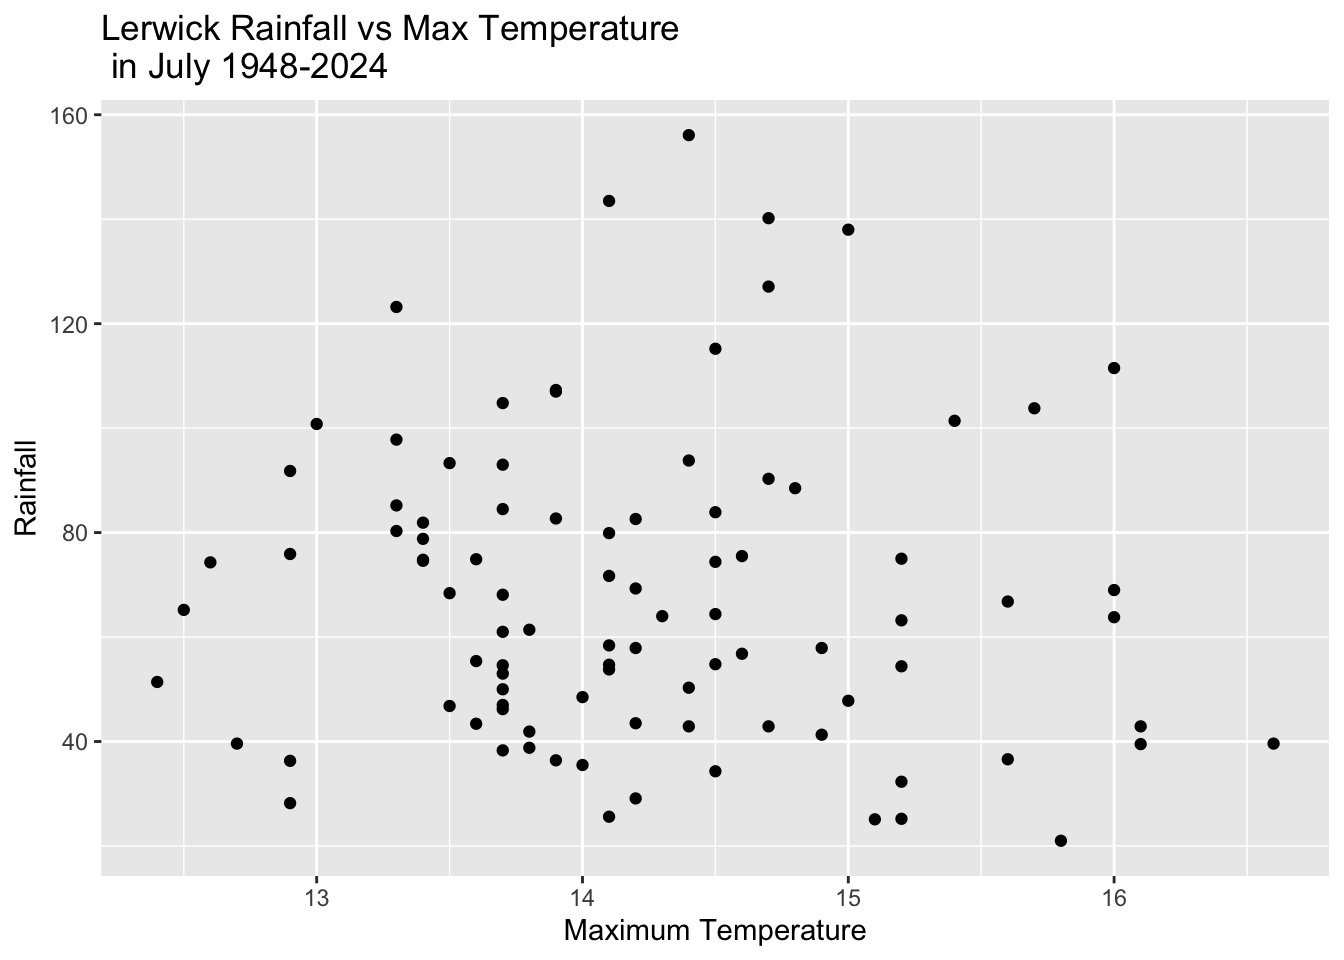
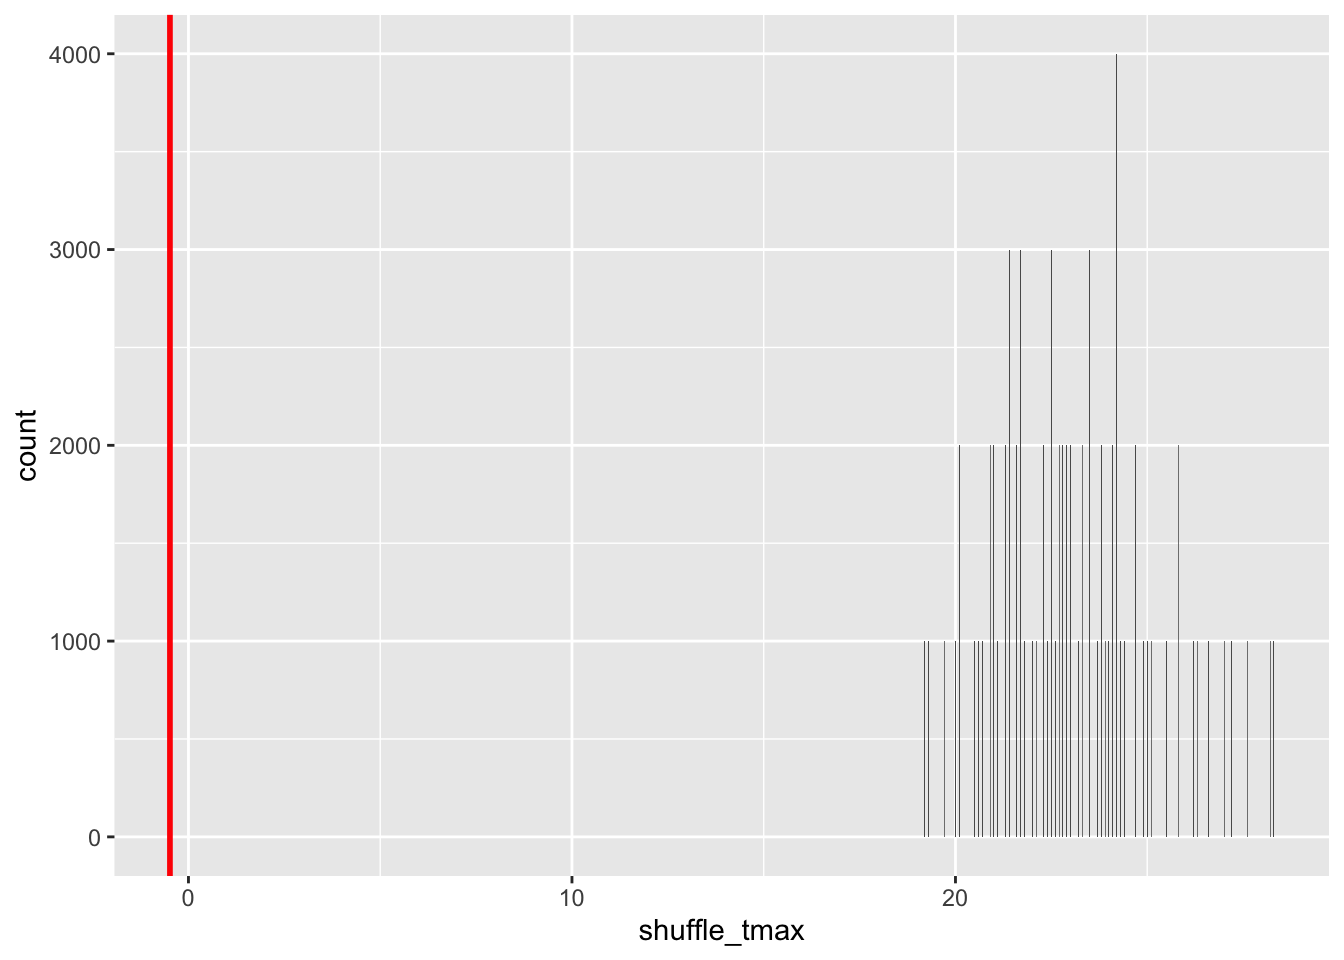
r value

diff --git a/docs/UK_Weather.html b/docs/UK_Weather.html
@@ -195,8 +195,9 @@ pre > code.sourceCode > span > a:first-child::before { text-decoration: underlin
 <summary>Code</summary>
 <div class="code-copy-outer-scaffold"><div class="sourceCode cell-code" id="cb1"><pre class="sourceCode r code-with-copy"><code class="sourceCode r"><span id="cb1-1"><a href="#cb1-1" aria-hidden="true" tabindex="-1"></a><span class="fu">library</span>(tidyverse)</span>
 <span id="cb1-2"><a href="#cb1-2" aria-hidden="true" tabindex="-1"></a><span class="fu">library</span>(ggplot2)</span>
-<span id="cb1-3"><a href="#cb1-3" aria-hidden="true" tabindex="-1"></a></span>
-<span id="cb1-4"><a href="#cb1-4" aria-hidden="true" tabindex="-1"></a>uk_weather <span class="ot">&lt;-</span> readr<span class="sc">::</span><span class="fu">read_csv</span>(<span class="st">'https://raw.githubusercontent.com/rfordatascience/tidytuesday/main/data/2025/2025-10-21/historic_station_met.csv'</span>)</span></code></pre></div><button title="Copy to Clipboard" class="code-copy-button"><i class="bi"></i></button></div>
+<span id="cb1-3"><a href="#cb1-3" aria-hidden="true" tabindex="-1"></a><span class="fu">library</span>(reprex)</span>
+<span id="cb1-4"><a href="#cb1-4" aria-hidden="true" tabindex="-1"></a></span>
+<span id="cb1-5"><a href="#cb1-5" aria-hidden="true" tabindex="-1"></a>uk_weather <span class="ot">&lt;-</span> readr<span class="sc">::</span><span class="fu">read_csv</span>(<span class="st">'https://raw.githubusercontent.com/rfordatascience/tidytuesday/main/data/2025/2025-10-21/historic_station_met.csv'</span>)</span></code></pre></div><button title="Copy to Clipboard" class="code-copy-button"><i class="bi"></i></button></div>
 </details>
 </div>
 <p>In the UK, the summers are often warm, however within the past few years there have been record high temperatures during the month of July. I thought it would be interesting to uncover the data from the month of July throughout a range of years.</p>
@@ -205,7 +206,7 @@ pre > code.sourceCode > span > a:first-child::before { text-decoration: underlin
 <summary>Code</summary>
 <div class="code-copy-outer-scaffold"><div class="sourceCode cell-code" id="cb2"><pre class="sourceCode r code-with-copy"><code class="sourceCode r"><span id="cb2-1"><a href="#cb2-1" aria-hidden="true" tabindex="-1"></a>heathrow_july <span class="ot">&lt;-</span> uk_weather <span class="sc">|&gt;</span></span>
 <span id="cb2-2"><a href="#cb2-2" aria-hidden="true" tabindex="-1"></a>  <span class="fu">filter</span>(station <span class="sc">==</span> <span class="st">"heathrow"</span>, month <span class="sc">==</span> <span class="dv">7</span>) <span class="sc">|&gt;</span></span>
-<span id="cb2-3"><a href="#cb2-3" aria-hidden="true" tabindex="-1"></a>  <span class="fu">select</span>(station, month, year, tmax, rain)</span>
+<span id="cb2-3"><a href="#cb2-3" aria-hidden="true" tabindex="-1"></a>  <span class="fu">select</span>(station, month, year, tmax, rain) </span>
 <span id="cb2-4"><a href="#cb2-4" aria-hidden="true" tabindex="-1"></a></span>
 <span id="cb2-5"><a href="#cb2-5" aria-hidden="true" tabindex="-1"></a><span class="fu">ggplot</span>(heathrow_july, <span class="fu">aes</span>(<span class="at">x =</span> tmax, <span class="at">y =</span> rain))<span class="sc">+</span></span>
 <span id="cb2-6"><a href="#cb2-6" aria-hidden="true" tabindex="-1"></a>  <span class="fu">geom_point</span>() <span class="sc">+</span></span>
@@ -226,41 +227,32 @@ pre > code.sourceCode > span > a:first-child::before { text-decoration: underlin
 <div class="cell">
 <details class="code-fold">
 <summary>Code</summary>
-<div class="code-copy-outer-scaffold"><div class="sourceCode cell-code" id="cb3"><pre class="sourceCode r code-with-copy"><code class="sourceCode r"><span id="cb3-1"><a href="#cb3-1" aria-hidden="true" tabindex="-1"></a>shuffling <span class="ot">&lt;-</span> <span class="cf">function</span>(num, dataframe){</span>
-<span id="cb3-2"><a href="#cb3-2" aria-hidden="true" tabindex="-1"></a>  dataframe <span class="sc">|&gt;</span></span>
-<span id="cb3-3"><a href="#cb3-3" aria-hidden="true" tabindex="-1"></a>    <span class="fu">mutate</span>(<span class="at">shuffle_tmax =</span> <span class="fu">sample</span>(tmax))</span>
-<span id="cb3-4"><a href="#cb3-4" aria-hidden="true" tabindex="-1"></a>}</span>
-<span id="cb3-5"><a href="#cb3-5" aria-hidden="true" tabindex="-1"></a>shuffled_heathrow <span class="ot">&lt;-</span> <span class="fu">map</span>(<span class="dv">1</span><span class="sc">:</span><span class="dv">1000</span>, shuffling, <span class="at">dataframe =</span> heathrow_july) <span class="sc">|&gt;</span></span>
-<span id="cb3-6"><a href="#cb3-6" aria-hidden="true" tabindex="-1"></a><span class="fu">list_rbind</span>()</span>
-<span id="cb3-7"><a href="#cb3-7" aria-hidden="true" tabindex="-1"></a></span>
-<span id="cb3-8"><a href="#cb3-8" aria-hidden="true" tabindex="-1"></a>shuffled_heathrow <span class="sc">|&gt;</span></span>
-<span id="cb3-9"><a href="#cb3-9" aria-hidden="true" tabindex="-1"></a>  <span class="fu">ggplot</span>(<span class="fu">aes</span>(<span class="at">x =</span> shuffle_tmax)) <span class="sc">+</span></span>
-<span id="cb3-10"><a href="#cb3-10" aria-hidden="true" tabindex="-1"></a>  <span class="fu">geom_histogram</span>(<span class="at">binwidth =</span> <span class="fl">0.02</span>) <span class="sc">+</span></span>
-<span id="cb3-11"><a href="#cb3-11" aria-hidden="true" tabindex="-1"></a>  <span class="fu">labs</span>(</span>
-<span id="cb3-12"><a href="#cb3-12" aria-hidden="true" tabindex="-1"></a>  )</span></code></pre></div><button title="Copy to Clipboard" class="code-copy-button"><i class="bi"></i></button></div>
+<div class="code-copy-outer-scaffold"><div class="sourceCode cell-code" id="cb3"><pre class="sourceCode r code-with-copy"><code class="sourceCode r"><span id="cb3-1"><a href="#cb3-1" aria-hidden="true" tabindex="-1"></a>correlation_heathrow <span class="ot">&lt;-</span> heathrow_july <span class="sc">|&gt;</span></span>
+<span id="cb3-2"><a href="#cb3-2" aria-hidden="true" tabindex="-1"></a>  <span class="fu">summarize</span>(<span class="at">r =</span> <span class="fu">cor</span>(tmax, rain)) <span class="sc">|&gt;</span></span>
+<span id="cb3-3"><a href="#cb3-3" aria-hidden="true" tabindex="-1"></a>  <span class="fu">pull</span>(r)</span>
+<span id="cb3-4"><a href="#cb3-4" aria-hidden="true" tabindex="-1"></a>correlation_heathrow</span></code></pre></div><button title="Copy to Clipboard" class="code-copy-button"><i class="bi"></i></button></div>
 </details>
-<div class="cell-output-display">
-<div>
-<figure class="figure">
-<p><img src="UK_Weather_files/figure-html/unnamed-chunk-3-1.png" class="img-fluid figure-img" width="672"></p>
-</figure>
-</div>
+<div class="cell-output cell-output-stdout">
+<pre><code>[1] -0.482847</code></pre>
 </div>
 </div>
 <div class="cell">
 <details class="code-fold">
 <summary>Code</summary>
-<div class="code-copy-outer-scaffold"><div class="sourceCode cell-code" id="cb4"><pre class="sourceCode r code-with-copy"><code class="sourceCode r"><span id="cb4-1"><a href="#cb4-1" aria-hidden="true" tabindex="-1"></a>lerwick_july <span class="ot">&lt;-</span> uk_weather <span class="sc">|&gt;</span></span>
-<span id="cb4-2"><a href="#cb4-2" aria-hidden="true" tabindex="-1"></a>  <span class="fu">filter</span>(station <span class="sc">==</span> <span class="st">"lerwick"</span>, month <span class="sc">==</span> <span class="dv">7</span>) <span class="sc">|&gt;</span></span>
-<span id="cb4-3"><a href="#cb4-3" aria-hidden="true" tabindex="-1"></a>  <span class="fu">select</span>(station, month, year, tmax, rain)</span>
-<span id="cb4-4"><a href="#cb4-4" aria-hidden="true" tabindex="-1"></a></span>
-<span id="cb4-5"><a href="#cb4-5" aria-hidden="true" tabindex="-1"></a><span class="fu">ggplot</span>(lerwick_july, <span class="fu">aes</span>(<span class="at">x =</span> tmax, <span class="at">y =</span> rain))<span class="sc">+</span></span>
-<span id="cb4-6"><a href="#cb4-6" aria-hidden="true" tabindex="-1"></a>  <span class="fu">geom_point</span>() <span class="sc">+</span></span>
-<span id="cb4-7"><a href="#cb4-7" aria-hidden="true" tabindex="-1"></a>  <span class="fu">labs</span>(</span>
-<span id="cb4-8"><a href="#cb4-8" aria-hidden="true" tabindex="-1"></a>    <span class="at">title =</span> <span class="st">"Lerwick Rainfall vs Max Temperature </span><span class="sc">\n</span><span class="st"> in July 1948-2024"</span>, </span>
-<span id="cb4-9"><a href="#cb4-9" aria-hidden="true" tabindex="-1"></a>    <span class="at">x =</span> <span class="st">"Maximum Temperature"</span>, </span>
-<span id="cb4-10"><a href="#cb4-10" aria-hidden="true" tabindex="-1"></a>    <span class="at">y =</span> <span class="st">"Rainfall"</span></span>
-<span id="cb4-11"><a href="#cb4-11" aria-hidden="true" tabindex="-1"></a>    )</span></code></pre></div><button title="Copy to Clipboard" class="code-copy-button"><i class="bi"></i></button></div>
+<div class="code-copy-outer-scaffold"><div class="sourceCode cell-code" id="cb5"><pre class="sourceCode r code-with-copy"><code class="sourceCode r"><span id="cb5-1"><a href="#cb5-1" aria-hidden="true" tabindex="-1"></a>shuffling <span class="ot">&lt;-</span> <span class="cf">function</span>(num, dataframe){</span>
+<span id="cb5-2"><a href="#cb5-2" aria-hidden="true" tabindex="-1"></a>  dataframe <span class="sc">|&gt;</span></span>
+<span id="cb5-3"><a href="#cb5-3" aria-hidden="true" tabindex="-1"></a>    <span class="fu">mutate</span>(<span class="at">shuffle_tmax =</span> <span class="fu">sample</span>(tmax))</span>
+<span id="cb5-4"><a href="#cb5-4" aria-hidden="true" tabindex="-1"></a>}</span>
+<span id="cb5-5"><a href="#cb5-5" aria-hidden="true" tabindex="-1"></a>shuffled_heathrow <span class="ot">&lt;-</span> <span class="fu">map</span>(<span class="dv">1</span><span class="sc">:</span><span class="dv">1000</span>, shuffling, <span class="at">dataframe =</span> heathrow_july) <span class="sc">|&gt;</span></span>
+<span id="cb5-6"><a href="#cb5-6" aria-hidden="true" tabindex="-1"></a><span class="fu">list_rbind</span>()</span>
+<span id="cb5-7"><a href="#cb5-7" aria-hidden="true" tabindex="-1"></a></span>
+<span id="cb5-8"><a href="#cb5-8" aria-hidden="true" tabindex="-1"></a>shuffled_heathrow <span class="sc">|&gt;</span></span>
+<span id="cb5-9"><a href="#cb5-9" aria-hidden="true" tabindex="-1"></a>  <span class="fu">ggplot</span>(<span class="fu">aes</span>(<span class="at">x =</span> shuffle_tmax)) <span class="sc">+</span></span>
+<span id="cb5-10"><a href="#cb5-10" aria-hidden="true" tabindex="-1"></a>  <span class="fu">geom_histogram</span>(<span class="at">binwidth =</span> <span class="fl">0.02</span>) <span class="sc">+</span></span>
+<span id="cb5-11"><a href="#cb5-11" aria-hidden="true" tabindex="-1"></a>  <span class="fu">geom_vline</span>(<span class="at">xintercept =</span> correlation_heathrow, <span class="at">color =</span> <span class="st">"red"</span>, <span class="at">linewidth =</span> <span class="dv">1</span>)<span class="sc">+</span></span>
+<span id="cb5-12"><a href="#cb5-12" aria-hidden="true" tabindex="-1"></a>  <span class="fu">labs</span>(</span>
+<span id="cb5-13"><a href="#cb5-13" aria-hidden="true" tabindex="-1"></a></span>
+<span id="cb5-14"><a href="#cb5-14" aria-hidden="true" tabindex="-1"></a>  )</span></code></pre></div><button title="Copy to Clipboard" class="code-copy-button"><i class="bi"></i></button></div>
 </details>
 <div class="cell-output-display">
 <div>
@@ -268,6 +260,41 @@ pre > code.sourceCode > span > a:first-child::before { text-decoration: underlin
 <p><img src="UK_Weather_files/figure-html/unnamed-chunk-4-1.png" class="img-fluid figure-img" width="672"></p>
 </figure>
 </div>
+</div>
+</div>
+<div class="cell">
+<details class="code-fold">
+<summary>Code</summary>
+<div class="code-copy-outer-scaffold"><div class="sourceCode cell-code" id="cb6"><pre class="sourceCode r code-with-copy"><code class="sourceCode r"><span id="cb6-1"><a href="#cb6-1" aria-hidden="true" tabindex="-1"></a>lerwick_july <span class="ot">&lt;-</span> uk_weather <span class="sc">|&gt;</span></span>
+<span id="cb6-2"><a href="#cb6-2" aria-hidden="true" tabindex="-1"></a>  <span class="fu">filter</span>(station <span class="sc">==</span> <span class="st">"lerwick"</span>, month <span class="sc">==</span> <span class="dv">7</span>) <span class="sc">|&gt;</span></span>
+<span id="cb6-3"><a href="#cb6-3" aria-hidden="true" tabindex="-1"></a>  <span class="fu">select</span>(station, month, year, tmax, rain)</span>
+<span id="cb6-4"><a href="#cb6-4" aria-hidden="true" tabindex="-1"></a></span>
+<span id="cb6-5"><a href="#cb6-5" aria-hidden="true" tabindex="-1"></a><span class="fu">ggplot</span>(lerwick_july, <span class="fu">aes</span>(<span class="at">x =</span> tmax, <span class="at">y =</span> rain))<span class="sc">+</span></span>
+<span id="cb6-6"><a href="#cb6-6" aria-hidden="true" tabindex="-1"></a>  <span class="fu">geom_point</span>() <span class="sc">+</span></span>
+<span id="cb6-7"><a href="#cb6-7" aria-hidden="true" tabindex="-1"></a>  <span class="fu">labs</span>(</span>
+<span id="cb6-8"><a href="#cb6-8" aria-hidden="true" tabindex="-1"></a>    <span class="at">title =</span> <span class="st">"Lerwick Rainfall vs Max Temperature </span><span class="sc">\n</span><span class="st"> in July 1948-2024"</span>, </span>
+<span id="cb6-9"><a href="#cb6-9" aria-hidden="true" tabindex="-1"></a>    <span class="at">x =</span> <span class="st">"Maximum Temperature"</span>, </span>
+<span id="cb6-10"><a href="#cb6-10" aria-hidden="true" tabindex="-1"></a>    <span class="at">y =</span> <span class="st">"Rainfall"</span></span>
+<span id="cb6-11"><a href="#cb6-11" aria-hidden="true" tabindex="-1"></a>    )</span></code></pre></div><button title="Copy to Clipboard" class="code-copy-button"><i class="bi"></i></button></div>
+</details>
+<div class="cell-output-display">
+<div>
+<figure class="figure">
+<p><img src="UK_Weather_files/figure-html/unnamed-chunk-5-1.png" class="img-fluid figure-img" width="672"></p>
+</figure>
+</div>
+</div>
+</div>
+<div class="cell">
+<details class="code-fold">
+<summary>Code</summary>
+<div class="code-copy-outer-scaffold"><div class="sourceCode cell-code" id="cb7"><pre class="sourceCode r code-with-copy"><code class="sourceCode r"><span id="cb7-1"><a href="#cb7-1" aria-hidden="true" tabindex="-1"></a>correlation_lerwick <span class="ot">&lt;-</span> lerwick_july <span class="sc">|&gt;</span></span>
+<span id="cb7-2"><a href="#cb7-2" aria-hidden="true" tabindex="-1"></a>  <span class="fu">summarize</span>(<span class="at">r =</span> <span class="fu">cor</span>(tmax, rain)) <span class="sc">|&gt;</span></span>
+<span id="cb7-3"><a href="#cb7-3" aria-hidden="true" tabindex="-1"></a>  <span class="fu">pull</span>(r)</span>
+<span id="cb7-4"><a href="#cb7-4" aria-hidden="true" tabindex="-1"></a>correlation_lerwick</span></code></pre></div><button title="Copy to Clipboard" class="code-copy-button"><i class="bi"></i></button></div>
+</details>
+<div class="cell-output cell-output-stdout">
+<pre><code>[1] -0.05910021</code></pre>
 </div>
 </div>
 
